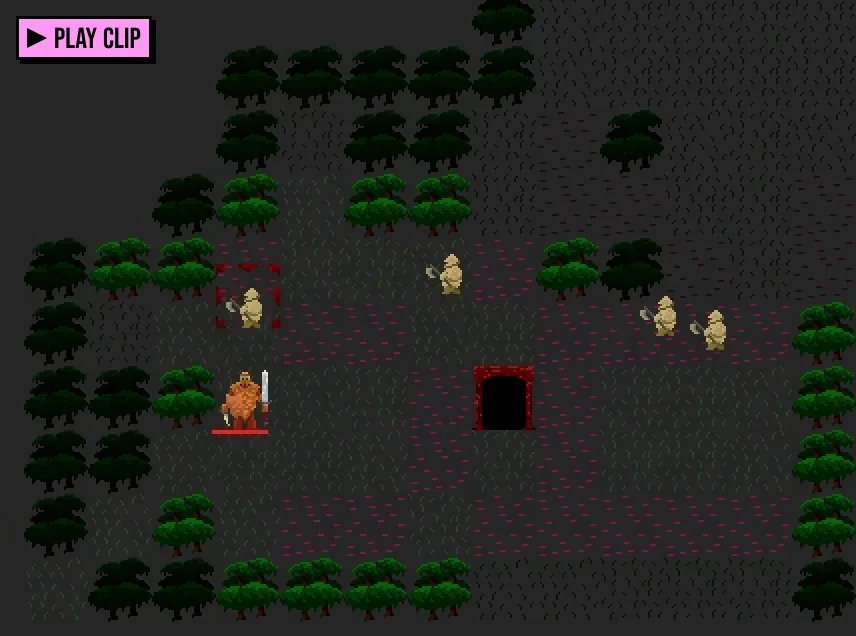
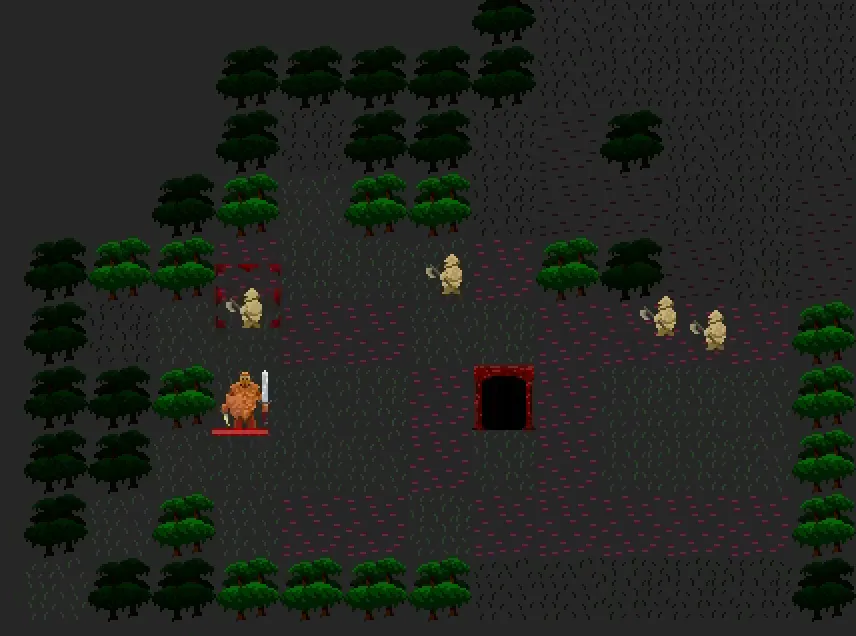
fix: drop the baked-in PLAY CLIP chip from clip posters
On a phone it looked like a button but was not one; the native play button
already marks the poster as a video.

Claude-Session: https://claude.ai/code/session_018G1xDty4659maH4E7QXq2s

Changed region(s): [[0.0, 0.0, 0.1822, 0.1195]]

diff --git a/src/pages/rss.xml.js b/src/pages/rss.xml.js
@@ -27,7 +27,7 @@ const PUBLIC_PATH = /(?<=\]\(|src=["'])\/images\/[^\s)"'>]+/g;
 /*
   Clips are raw <video> tags (scripts/clip.mjs). Most feed readers strip video, and
   sanitize-html does too, so in the feed each clip becomes its poster still, linked to the
-  post. The poster already carries a "PLAY CLIP" badge, so it reads as something to open.
+  post. The alt text says it is a video that plays on the site.
 */
 const VIDEO = /<video\b([^>]*)>(?:[\s\S]*?<\/video>)?/g;
 const POSTER = /\sposter="([^"]*)"/;
